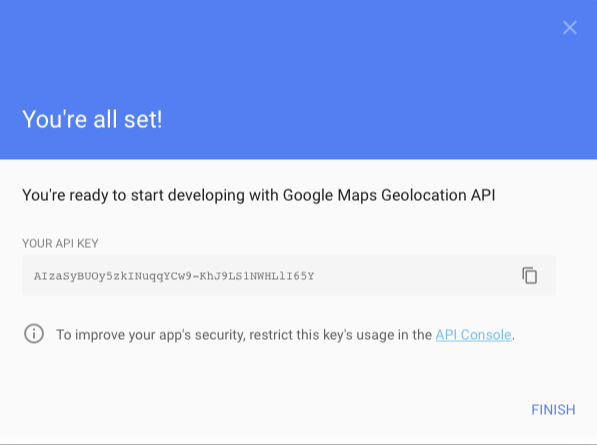
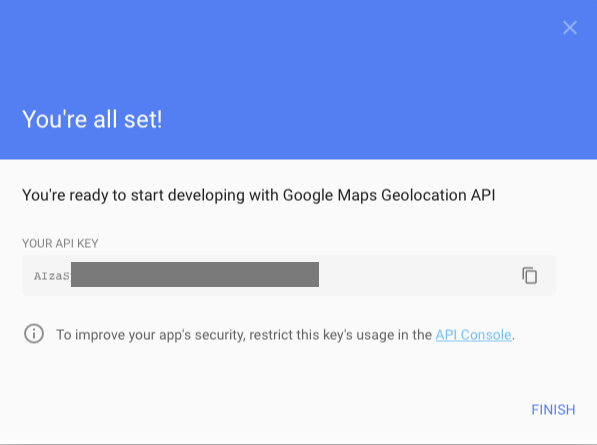
Update the Google Maps integration docs

Changed region(s): [[0.1206, 0.5843, 0.5427, 0.6427]]

diff --git a/src/content/tutorials/integrations/google-maps.md b/src/content/tutorials/integrations/google-maps.md
@@ -1,5 +1,5 @@
 ---
-title: Google Maps 
+title: Google Maps
 layout: tutorials.hbs
 columns: two
 order: 150
@@ -7,63 +7,99 @@ order: 150
 
 # {{title}} Integration
 
-The Google Maps Device Locator makes it easy to find the location of Particle Electron and Photon devices without any additional hardware. Reporting your Photon or Electron's location to the cloud is as easy as:
+Particle and Google Maps can now be used in tandem to easily find the location of
+Particle devices without the need for any additional hardware. The <a href="https://developers.google.com/maps/documentation/geolocation/intro" target="_blank">Geolocation API</a>
+from Google Maps returns a location and accuracy radius from visible Wi-Fi access points
+or cell towers collected by Particle devices.
 
-```
-#include "google-maps-device-locator.h"
+<img src="/assets/images/particle+gm.png"
+alt="Particle + Azure IoT Hub"/>
+<p class="caption">Geolocate Particle devices using the Google Maps
+Geolocation API</p>
 
-GoogleMapsDeviceLocator locator;
+Geolocating devices has many potential applications in an IoT deployment,
+including:
 
-void setup() {
-	locator.withLocatePeriodic(120); 
-}
+- *Improve operating efficiency* via remote tracking of assets in a
+company's supply chain, including improving demand forecasting and
+reducing operating expenses. For more details, please check out our <a href="https://www.particle.io/white-papers/iot-revolutionizing-supply-chain-management"
+target="_blank">whitepaper on supply chain management</a>
+- *Delight customers* via providing visibility into the
+location of connected devices to end-users in real-time
+- *Discover business insights* via collecting and identifying device location data
 
-void loop() {
-	locator.loop();
-}
-```
+This tutorial will explore how to get started with the Particle + Google
+Maps integration.
 
-Once in the cloud, you could plot the location on a map or show it on a display on the device, for example. These examples are provided below.
+## Geolocation basics
 
-
-## About geolocation
-
-There are four common ways to find a location:
+There are four common ways to find a location of a device, described
+below. It is important to note that while these methods are distinct
+from one another, it is possible (and often preferrable) to use multiple
+geolocation methods together to enhance end-user experience and/or
+increase the likelihood of successfully locating a device.
 
 ### GPS (Global Positioning System)
 
-The Global Positioning System (GPS) is generally the most accurate and it can provide your location continuously. The disadvantage is that it requires additional hardware like the Particle [Asset Tracker module](https://www.particle.io/products/hardware/asset-tracker). 
+The Global Positioning System (GPS) is generally the most accurate and
+it can provide device location continuously. Under normal conditions,
+GPS can locate a device with an accuracy of ~4 meters.
 
-It may also take some time to establish a satellite fix, and may have trouble establishing a location where the view is obstructed, such as downtown in cities.
+While very accurate, the disadvantage is that GPS requires additional hardware like the Particle [Asset Tracker module](https://www.particle.io/products/hardware/asset-tracker). It may also take some time to establish a satellite fix, and may have trouble establishing a location where the view is obstructed, such as downtown in cities.
 
-If you only need to find approximate locations, such as a neighborhood or town, the other options may be suitable and are generally free and require no additional hardware.
+The Particle + Google Maps integration does not use GPS, but rather
+cell towers or Wi-Fi networks to geolocate a device. Read on for a
+description of these two geolocation methods.
 
 ### Cellular tower location
 
-Another alternative is to use cell tower location information. This is good for Particle Electron based projects that only need approximate locations. 
-
-The Google Maps Device Locator makes this easy to do, with just a few lines of code on Particle Electron (cellular) devices.
+Cell tower geolocation is ideal for cellular IoT deployments that require approximate locations
+and do not wish to include additional hardware to support GPS.
 
 Every cell tower has an identifier, and this can be looked up using the Google Geolocation API to find its location. This process is fast and provides a general location, usually within 4000 meters or a couple miles.
 
+The Google Maps integration can be used in tandem with a Particle
+Electron to geolocate devices using visible cellular networks.
 
 ### Wi-Fi location
 
-For the Particle Photon and P1, Wi-Fi location is another option. Google maintains a database of known Wi-Fi base stations and can use this to determine your location by what networks it can see.
+For the Particle Photon and P1, Wi-Fi geolocation is another option.
+Google maintains a database of known Wi-Fi base stations and can use
+this to determine a device's  location by what networks it can see.
 
-The Google Maps Device Locator makes this easy to do, with just a few lines of code on Particle Photon and P1 (Wi-Fi) devices. 
+The database is generated by information from Android smart phones with
+location services enabled. They periodically record both the visible
+Wi-Fi access points and GPS locations when location services is enabled.
+(Apple uses the same technique with iPhones for their Wi-Fi location
+database, but it's a different database than Google's database.) Not all
+Wi-Fi access points are included in these databases, but if a device is near one,
+it can provide accurate location information.
 
-The database is generated by information from Android smart phones with location services enabled. They periodically record both the visible Wi-Fi access points and GPS locations when location services is enabled. (Apple uses the same technique with iPhones for their Wi-Fi location database, but it's a different database than Google's database.)
-
-Not all Wi-Fi access points are in the database, but if you are near one, it can provide accurate location information with no additional cost.
-
+The Google Maps integration also supports this method of geolocation.
+Particle Photon and P1 (Wi-Fi) devices can collect visible Wi-Fi access
+points, and send these to the geolocation API in exchange for its
+location. Often times, Wi-Fi geolocation is more precise than cellular
+geolocation, often with an accuracy radius of 50 meters or less.
 
 ### IP Address location
 
-The Google Maps Device Locator does not use this technique, but for home Wi-Fi networks it's often possible to get an approximate location (city or nearby city), based on the public IP address. 
+The Google Maps Device Locator does not use this technique, but for home
+Wi-Fi networks it's often possible to get an approximate location (city
+or nearby city), based on the public IP address. Particle Wi-Fi devices
+report their last IP address to the cloud, which could be used for this
+geolocation method. This is most often the least accurate of the 4
+methods described in this section.
 
+## Preconfiguration steps
 
-## Get a Google Geolocation API Key
+### Sign up for a Google account
+
+If you do not already have an account, visit the <a href="https://accounts.google.com/signup?hl=en" target="_blank">Google signup page</a>.
+Follow the instructions to register for a new account. A Google account
+is needed to successfully authenticate with the Google Maps Geolocation
+API.
+
+### Get a Google Geolocation API Key
 
 In order to use the Google Geolocation API, you need an API key. In many cases, you'll be able to take advantage of the free usage tier.
 
@@ -75,7 +111,7 @@ In order to use the Google Geolocation API, you need an API key. In many cases, 
 
 ![Get a key](/assets/images/google-maps-03.png)
 
-- Select or create a project. 
+- Select or create a project.
 
 ![Select or create project](/assets/images/google-maps-04.png)
 
@@ -91,47 +127,31 @@ In order to use the Google Geolocation API, you need an API key. In many cases, 
 
 ![API Key](/assets/images/google-maps-07.png)
 
-I got the API key `AIzaSyBUOy5zkINuqqYCw9-KhJ9LS1NWHLlI65Y`. Copy your key to the clipboard because you'll need it when you create your integration.
+Copy your key to the clipboard because you'll need it when you enable your integration.
 
 To view, edit or delete your credentials later, you can use the [Google Developer Credentials Console](https://console.developers.google.com/apis/credentials).
 
-## Enabling the Integration
-
-### Particle Console
-
-Now that you've done all of the pre-configuration, you are now ready to enable the Google Cloud Platform integration
-on the <a href="https://console.particle.io" target="_blank">Particle Console</a>.
-
-Start by going to the integrations hub by clicking on the integrations icon in the sidebar (<i class="im-integrations-icon"></i>), or
-by simply <a href="https://console.particle.io/integrations" target="_blank">following this link</a>. If you'd like to enable the integration
-for a <a href="/guide/tools-and-features/console/#devices-vs-product-devices" target="_blank">product</a>, you'll need to visit the integrations
-hub for the desired product. Do this by clicking the products icon (<i class="im-product-icon"></i>) in the sidebar, finding your product,
-then clicking on the integrations icon (<i class="im-integrations-icon"></i>) in the product context.
-
-Once in the integrations hub, click on the "New Integration" button. From the list of available integrations, click on "Google Cloud Platform."
-
-<img src="/assets/images/google-maps-01.png"/>
-
-You'll see a reminder that setup is required before continuing to enable the integration. If you have followed the steps above, you should be good to go. Click the "I have done all these things" button to advance.
-
-The next step is configuring the integration. Fill out the following fields:
-
-- **API Key**: Enter the API key you created above. In the example above, it was `AIzaSyBUOy5zkINuqqYCw9-KhJ9LS1NWHLlI65Y` but yours will be different. You must create your own API key; you can't use that one.
-
-- **Device**: Select which of your devices will trigger publishing to Google. If you'd like the publish to trigger from any of the devices you own, select 'Any.'
-For product-level integrations, you can instead choose if you'd like the response to the integration to be routed back to the device in the fleet that originally triggered the publish.
-
-![Integration Configuraton](/assets/images/google-maps-02.png)
-
-If you expand **Advanced Settings** the following option appears:
-
-- **Override Default Event Name**: The name of the event that will trigger publishing an event to Google Cloud Platform. This is the name of your event set using `locator.withEventName("differentEventName")`.
-
-## Firmware
+### Run the Google Maps firmware library on your devices
 
 The final piece is the firmware that you flash to your Photon or Electron:
 
-### Using Particle Build (Web IDE)
+Reporting your Photon or Electron's location to the cloud is as easy as:
+
+```
+#include "google-maps-device-locator.h"
+
+GoogleMapsDeviceLocator locator;
+
+void setup() {
+	locator.withLocatePeriodic(120);
+}
+
+void loop() {
+	locator.loop();
+}
+```
+
+#### Using Particle Build (Web IDE)
 
 - Select the **Libraries** icon (1)
 
@@ -156,6 +176,42 @@ The final piece is the firmware that you flash to your Photon or Electron:
 This example publishes the location every 2 minutes (120 seconds). It works on the Particle Photon, P1, and Core (Wi-Fi) and also the Electron (cellular).
 
 By changing a few options you can have it publish once at boot, which might be appropriate for Wi-Fi devices that are not battery powered. You can also post location on demand, when you make a call from your code.
+
+## Enabling the Integration
+
+### Particle Console
+
+Now that you've done all of the pre-configuration, you are now ready to
+enable the Google Maps integration
+on the <a href="https://console.particle.io" target="_blank">Particle Console</a>.
+
+Start by going to the integrations hub by clicking on the integrations icon in the sidebar (<i class="im-integrations-icon"></i>), or
+by simply <a href="https://console.particle.io/integrations" target="_blank">following this link</a>. If you'd like to enable the integration
+for a <a href="/guide/tools-and-features/console/#devices-vs-product-devices" target="_blank">product</a>, you'll need to visit the integrations
+hub for the desired product. Do this by clicking the products icon (<i class="im-product-icon"></i>) in the sidebar, finding your product,
+then clicking on the integrations icon (<i class="im-integrations-icon"></i>) in the product context.
+
+Once in the integrations hub, click on the "New Integration" button.
+From the list of available integrations, click on "Google Maps."
+
+<img src="/assets/images/google-maps-01.png"/>
+
+You'll see a reminder that setup is required before continuing to enable the integration. If you have followed the steps above, you should be good to go. Click the "I have done all these things" button to advance.
+
+The next step is configuring the integration. Fill out the following fields:
+
+- **API Key**: Enter the API key you created above. In the example above, it was `AIzaSyBUOy5zkINuqqYCw9-KhJ9LS1NWHLlI65Y` but yours will be different. You must create your own API key; you can't use that one.
+
+- **Device**: Select which of your devices will trigger publishing to Google. If you'd like the publish to trigger from any of the devices you own, select 'Any.'
+For product-level integrations, you can instead choose if you'd like the response to the integration to be routed back to the device in the fleet that originally triggered the publish.
+
+![Integration Configuraton](/assets/images/google-maps-02.png)
+
+If you expand **Advanced Settings** the following option appears:
+
+- **Override Default Event Name**: The name of the event that will
+trigger publishing an event to Google Maps. This is the name of your event set using `locator.withEventName("differentEventName")`.
+
 
 ## Testing it out
 
@@ -244,7 +300,8 @@ The source code is in the **oled-location** directory.
 
 ## Example: Google Location Tracker
 
-This example demonstrates how to visualize your Google Maps Device Locator results using node.js in a Google App Engine Flexible Environment and the Google Maps Javascript API. This sample also uses the Express web framework, websockets, and the Particle Javascript API. 
+This example demonstrates how to visualize your Google Maps Device
+Locator results using Node.js in a Google App Engine Flexible Environment and the Google Maps Javascript API. This sample also uses the Express web framework, websockets, and the Particle Javascript API.
 
 It can be run from your own computer, as described in the Run Locally section, or it can be deployed to the Google Cloud.
 
